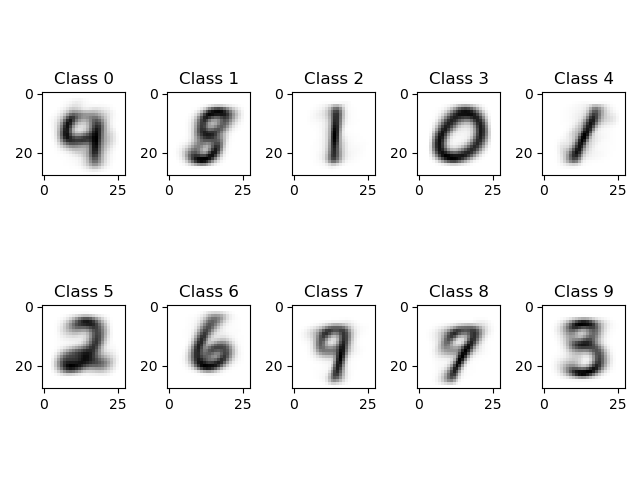
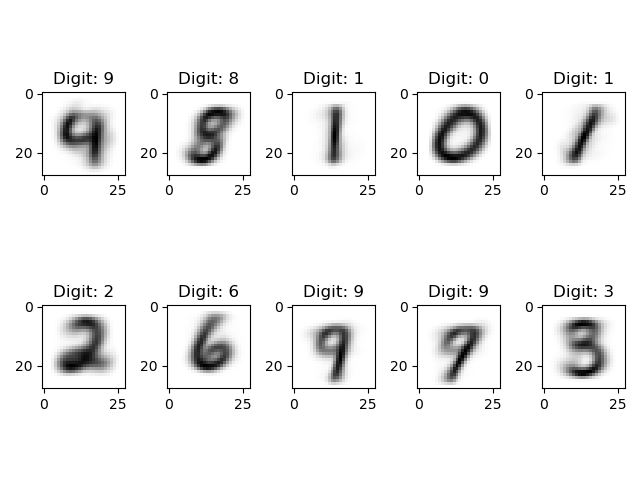
changed kmeans png

diff --git a/train.py b/train.py
@@ -61,14 +61,15 @@ if __name__ == '__main__':
         # model.fit(X, y)
         # dump(model, 'trained_models/kmeans.joblib')
 
-        model = load('trained_models/kmeans.joblib')
+        model_nn = load('trained_models/mlp.joblib')
+        model_kmeans = load('trained_models/kmeans.joblib')
 
         fig, ax = plt.subplots(2,5)
         for i in range(2):
             for j in range(5):
-                im = 1 - model.cluster_centers_[i * 5 + j]
-                ax[i, j].set_title('Class %d' %(i * 5 + j))
-                ax[i, j].imshow(im.reshape((28, 28)), cmap='gray')
+                im = model_kmeans.cluster_centers_[i * 5 + j]
+                ax[i, j].set_title('Digit: %d' %(model_nn.predict([im])[0]))
+                ax[i, j].imshow(1 - im.reshape((28, 28)), cmap='gray')
         fig.tight_layout()
         plt.savefig('figs/kmeans.png')
 
